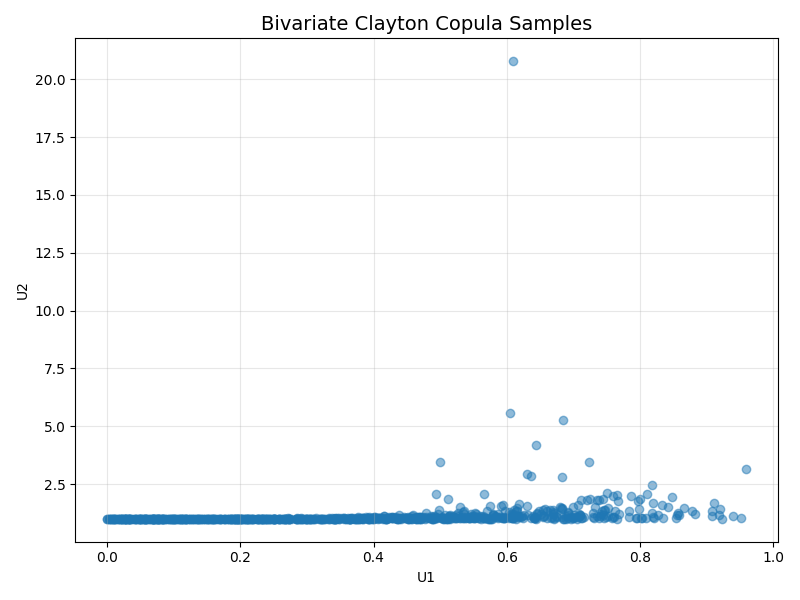
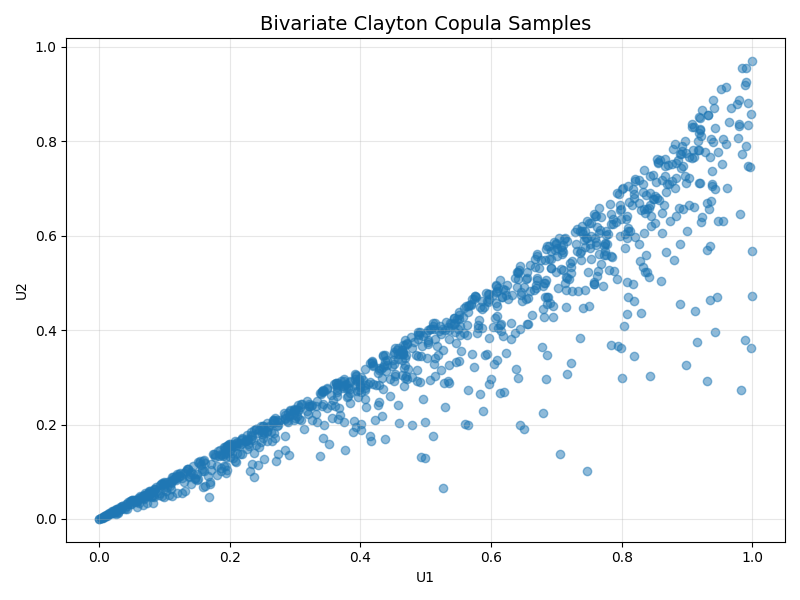
Remove tracked pyc files from src/copula

diff --git a/src/copula/ClaytonCopula.py b/src/copula/ClaytonCopula.py
@@ -24,26 +24,19 @@ class ClaytonCopula(CopulaDistribution):
 
     def simulate(self, n_samples: int, params: Dict) -> np.ndarray:
         """
-        Simulate samples from a bivariate Clayton copula.
-        
-        Args:
-            n_samples: Number of samples to generate
-            params: Dictionary containing 'theta' (dependence parameter)
-            
-        Returns:
-            Uniform samples from the Clayton copula
+        Simulate samples from a bivariate Clayton copula using inverse transform.
         """
-        theta = params.get('theta', 2.0)  # Default theta = 2.0
+        theta = params.get('theta', 2.0)  # Must be > 0
 
-        # Generate uniform random variables
-        v1 = np.random.uniform(0, 1, n_samples)
-        v2 = np.random.uniform(0, 1, n_samples)
+        if theta <= 0:
+            raise ValueError("Theta must be > 0 for Clayton copula.")
 
-        # Transform to Clayton copula
-        u1 = v1
-        if abs(theta) < 1e-10:  # Independent case
-            u2 = v2
-        else:
-            u2 = (1 - np.log(v2) / (v1**(-theta) * np.log(v1)))**(-1/theta)
+        # Step 1: Generate uniform U1 and independent W ~ Uniform[0, 1]
+        u1 = np.random.uniform(0, 1, n_samples)
+        w = np.random.uniform(0, 1, n_samples)
+
+        # Step 2: Use inverse transform formula for Clayton
+        u2 = (w**(-theta / (1 + theta)) * u1 **
+              (-theta) - 1 + u1**(-theta))**(-1/theta)
 
         return np.column_stack((u1, u2))
